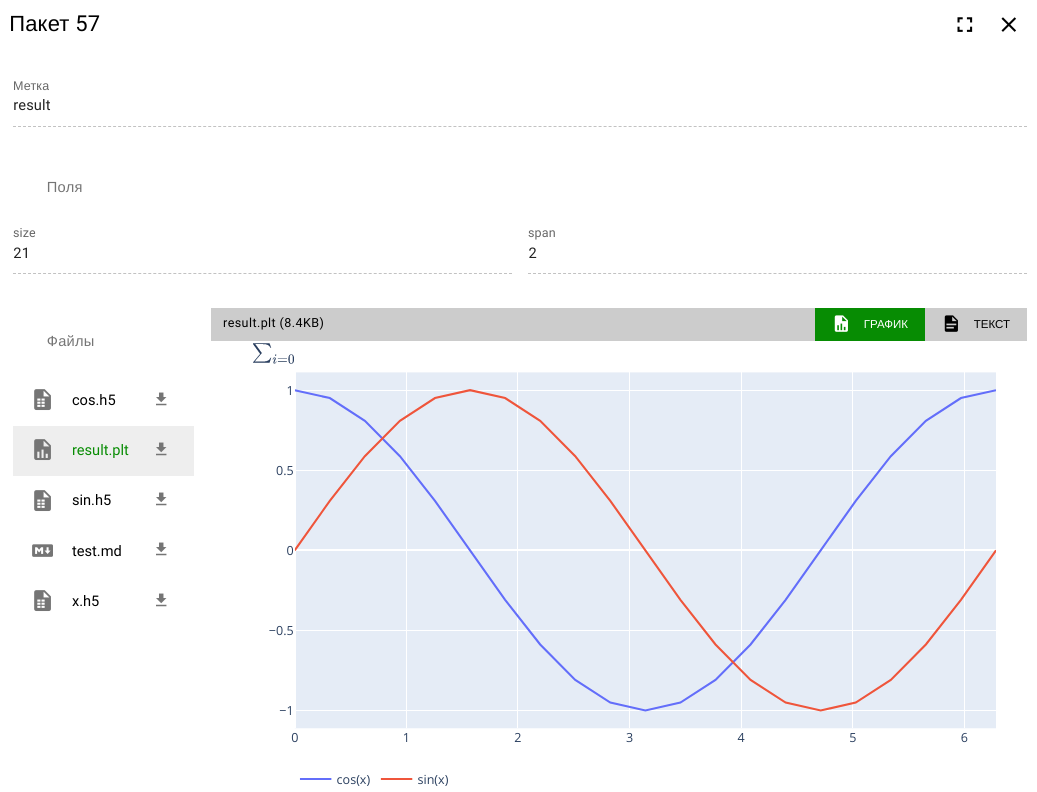
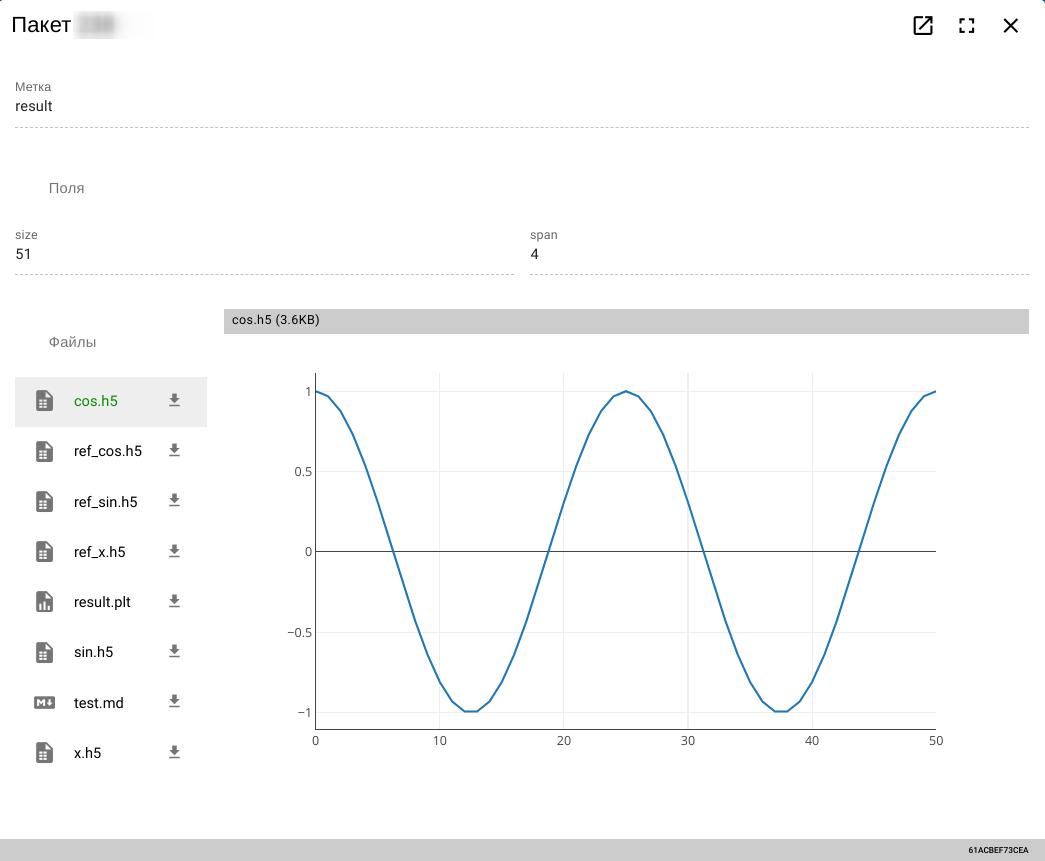
Package info refactoring

diff --git a/src/.vuepress/config.js b/src/.vuepress/config.js
@@ -62,6 +62,7 @@ module.exports = {
             '/desc/nodes',
             '/desc/links',
             '/desc/node_params',
+            '/desc/package',
             '/desc/project_role',
             '/desc/project_user',
             '/desc/secrets',

diff --git a/src/desc/nodes.md b/src/desc/nodes.md
@@ -27,7 +27,7 @@
   - <span class="iconify-inline" data-icon="mdi:kubernetes"></span> Иконка типа узла
   - Название узла: _compute_
   - <span class="iconify-inline" data-icon="mdi:delete"></span> Кнопка удаления узла
-- Кнопки для доступа к соответствующим свойствам узла
+- Кнопки для доступа к соответствующим вкладкам панели узла
 
   - <span class="iconify-inline" data-icon="mdi:card-text"> </span> [Описание](#описание)
   - <span class="iconify-inline" data-icon="mdi:tune"></span> [Параметры](#параметры)
@@ -46,13 +46,13 @@
 
 ![Query node](/images/common/node_query.png)
 
-Общий состав аналогичен [виду расчетного узла](#расчетныи-узел). Но доступ обеспечивается только к следующим свойствам узла:
+Общий состав аналогичен [виду расчетного узла](#расчетныи-узел). Но доступ обеспечивается только к следующим вкладкам панели узла:
 
 - Кнопки для доступа к соответствующим свойствам узла
   - <span class="iconify-inline" data-icon="mdi:card-text"></span> [Описание](#описание)
   - <span class="iconify-inline" data-icon="mdi:tune"></span> [Параметры](#параметры)
   - <span class="iconify-inline" data-icon="mdi:database"></span> [Запрос](#запрос)
-  - <span class="iconify-inline" data-icon="mdi:package"></span> [Пакеты](#пакеты)
+  - <span class="iconify-inline" data-icon="mdi:package"></span> [Пакеты][#пакеты]
 
 ### Узел данных
 
@@ -60,12 +60,12 @@
 
 ![Data node](/images/common/node_data.png)
 
-Общий состав аналогичен [виду расчетного узла](#расчетныи-узел). Но доступ обеспечивается только к следующим свойствам узла:
+Общий состав аналогичен [виду расчетного узла](#расчетныи-узел). Но доступ обеспечивается только к следующим вкладкам панели узла:
 
 - Кнопки для доступа к соответствующим свойствам узла
   - <span class="iconify-inline" data-icon="mdi:card-text"></span> [Описание](#описание)
   - <span class="iconify-inline" data-icon="mdi:tune"></span> [Параметры](#параметры)
-  - <span class="iconify-inline" data-icon="mdi:package"></span> [Пакеты](#пакеты)
+  - <span class="iconify-inline" data-icon="mdi:package"></span> [Пакеты][#пакеты]
 
 ## Панели узла
 
@@ -118,7 +118,7 @@
 
     Структура каждого элемента списка:
 
-    - Тип переменной <span class="iconify-inline" data-icon="mdi:code-json"></span> [Поле](#пакеты) или <span class="iconify-inline" data-icon="mdi:file"></span> [Файл](#пакеты) или <span class="iconify-inline" data-icon="mdi:package"></span> [Вложенные пакеты](#пакеты) с возможностью изменения при щелчке по ней
+    - Тип переменной <span class="iconify-inline" data-icon="mdi:code-json"></span> [Поле][3] или <span class="iconify-inline" data-icon="mdi:file"></span> [Файл][3] или <span class="iconify-inline" data-icon="mdi:package"></span> [Вложенные пакеты][3] с возможностью изменения при щелчке по ней
     - Название переменной с возможностью переименования при щелчке по ней
     - Описание переменной с возможностью переименования при щелчке по нему
     - <span class="iconify-inline" data-icon="mdi:content-copy"></span> Копирование переменной
@@ -221,39 +221,7 @@ Cтруктура:
 
 ### Пакеты
 
-#### Описание
-
-**Пакет** (Package) - набор данных, поступающих на обработку на соответствующий узел.
-
-Общее количество пакетов в узле в текущем [слое данных][1] отображается в виде ярлыка <span class='iconify-inline' data-icon='ph:number-square-one-fill' style="color: green"></span>:
-
-![Node packages count](/images/common/node_compute_packages.png)
-
-**Мастер пакет** (Master package) <span class='iconify-inline' data-icon='fluent:rectangle-landscape-16-filled' style="color: red"></span> - выбранный пользователем корневой пакет слоя данных. Выбор такого пакета позволяет отображать в текущем [слое данных][1] только родительские и дочерние пакеты мастер пакета.
-
-![Master package](/images/common/node_panel_packages_master.png)
-
-Состав пакета:
-
-- Метка - имя пакета
-- Поля - переменные простых типов
-  > Представление в [JSON](https://www.json.org/json-en.html) формате.Такие переменные можно использовать в запросах логического узла.
-- Файлы - объектные переменные или файлы
-  > Представление в объектном виде (hdf5, plotly, markdown). При автоматическом создании используется [HDF5](https://portal.hdfgroup.org/display/HDF5/Introduction+to+HDF5) формат.
-- Массив пакетов - массив "вложенных" пакетов. "Вложенный" пакет представляет собой обычный пакет с дополнительной ссылкой на пакет, в который он "вложен".
-
-  ::: warning <span class="iconify" data-icon="emojione-v1:warning" style="color: #e7c000; font-size: 24px;"></span>
-
-  Массив пакетов может быть [сформирован](/docs/dev/sql.md#пример-формирования-пакета-с-переменнои-типа-массив-пакетов) только в [SQL yзле](#sql-узел) с помощью агрегатной функции `json_agg(json_build_object())`. Вложенные пакеты должны иметь одинаковую структуру.
-
-  Пакет с таким типом переменной не может быть снова подан на вход другого SQL узла.
-
-  Для исполнительного скрипта в [расчетном узле](#расчетныи-узел) пакет с переменой типа "массивом пакетов" загружается как набор из основного пакета и вложенных пакетов в виде отдельных обычных пакетов.
-  :::
-
-#### Интерфейс
-
-В узле в соответствующей вкладке <span class='iconify-inline' data-icon='mdi:package'></span> **Пакеты** отображается список пакетов узла в рамках выбранного [слоя данных][1]:
+В вкладке <span class='iconify-inline' data-icon='mdi:package'></span> **Пакеты** отображается список [пакетов][4] узла в рамках выбранного [слоя данных][1]:
 
 ![Node package](/images/common/node_panel_packages.png)
 
@@ -297,32 +265,25 @@ Cтруктура:
 
 Для открытия окна конкретного пакета необходимо щелкнуть по его идентификатору в столбце **Id**.
 
-Структура отображения состава пакета:
+Структура отображения состава [пакета][4]:
+
+- Панель инструментов
+
+  - <span class='iconify-inline' data-icon='mdi:open-in-new'></span> Открыть пакет на новой странице браузера
+    ::: tip <span class='iconify' data-icon='mdi:information' style='color: #42b983; font-size: 24px;'></span>
+    При открытии пакета на новой странице браузера возвращается прямая ссылка на пакет.
+    :::
+
+  - <span class='iconify-inline' data-icon='mdi:fullscreen'></span> Открыть на весь экран
+  - <span class='iconify-inline' data-icon='mdi:close'></span> Закрыть
 
 - Метка
 - Поля и их значения
-- Список файлов
-  - Отображение выбранного файла в текстовом виде (при поддержке формата)
-  - Визуализация выбранного файла (при поддержке формата)
-  - <span class="iconify-inline" data-icon="mdi:download"></span> Скачать файл
+- Список файлов с кнопкой скачивания <span class="iconify-inline" data-icon="mdi:download"></span>
+- Окно отображения выбранного файла
+- Кнопка копирования [уникального идентификатора][3] пакета (в правом нижнем углу)
 
 ![Package](/images/common/package.png)
-
-#### Обработка пакета
-
-Пакет может обрабатываться в 3 режимах:
-
-1. Автоматическом
-
-   Автоматическая обработка пакета происходит в случае если узел находится в активном [состоянии](#состояние). В этом случае для каждого нового входящего пакета автоматически создается [задание](#задания), которое отравляется на соответствующий сервер расчетов проекта.
-
-2. [Ручном не интерактивном](/docs/instructions/package.md#обработка-пакета)
-
-   Пакет отправляется на первичную или повторную обработку вручную.
-
-3. [Ручном интерактивном](/docs/instructions/package.md#интерактивная-обработка-пакета)
-
-   Пакет отправляется на первичную или повторную обработку интерактивную обработку вручную.
 
 ### Запрос
 
@@ -430,7 +391,7 @@ Cтруктура:
 
 Структура отображения состава задания:
 
-- Панель управления
+- Панель инструментов
   - <span class='iconify-inline' data-icon='mdi:fullscreen'></span> Открыть на весь экран
   - <span class='iconify-inline' data-icon='mdi:close'></span> Закрыть
 - История обработки
@@ -460,3 +421,5 @@ Cтруктура:
 
 [1]: ./project.md#слои-данных
 [2]: /docs/desc/node_params.md#управление-параметрами
+[3]: /docs/desc/package.md#состав
+[4]: /docs/desc/package.md

diff --git a/src/dev/sql.md b/src/dev/sql.md
@@ -26,10 +26,9 @@
 
    Массив используется в служебных целях (не отображается пользователю при обработке пакета в скрипте расчетного узла ) для формирования истории создания пакета и для идентификации уникальности результата запроса.
 
-2. Остальные столбцы результата запроса преобразуются в переменные типа "поле" или "файл" или "массив пакетов" [пакета][1]. Тип переменной задается в выходной [спецификации][3] [SQL узла][2].
+2. Остальные столбцы результата запроса преобразуются в переменные типа [поле][6] или [файл][6] или [массив пакетов][6] [пакета][1]. Тип переменной задается в выходной [спецификации][3] [SQL узла][2].
 
-3. Если столбец должен представлять переменную типа "массив пакетов", то он должен формироваться как JSON массив JSON объектов. Для каждого JSON объекта создается новый "вложенный" пакет, а каждое поле JSON объекта преобразуется в переменную типа "поле" или "файл" "вложенного" [пакета][1]. Тип переменной задается в выходной [спецификации][3] [SQL узла][2].
-   Дополнительная информация о переменной типа "массив пакетов" в описании [пакета][1].
+3. Если столбец должен представлять переменную типа [массив пакетов][6], то он должен формироваться как JSON массив JSON объектов. Для каждого JSON объекта создается новый "вложенный" пакет, а каждое поле JSON объекта преобразуется в переменную типа [поле][6] или [файл][6] "вложенного" [пакета][1]. Тип переменной задается в выходной [спецификации][3] [SQL узла][2].
 
 ### Пример формирования простого пакета
 
@@ -63,12 +62,12 @@ from sin s join cos c on s.job_id = c.job_id
 
 ::: warning <span class="iconify" data-icon="emojione-v1:warning" style="color: #e7c000; font-size: 24px;"></span>
 
-При создании запроса в качестве условных параметров можно использовать только [переменные пакета][1] типа "поле". В качестве возвращаемых переменных можно использовать любые переменные пакета.
+При создании запроса в качестве условных параметров можно использовать только переменные пакета типа [поле][6]. В качестве возвращаемых переменных можно использовать любые переменные пакета.
 :::
 
 ### Пример формирования пакета с переменной типа "массив пакетов"
 
-Дополнительная информация о переменной типа "массив пакетов" в описании [пакета][1].
+Дополнительная информация о переменной типа [массив пакетов][6] в описании [пакета][1].
 
 ```sql:no-line-numbers
 select
@@ -143,7 +142,7 @@ group by ...
 
 - Результат - тип выходного [пакета][1]
   - Плоский пакет - обычный [пакет][1]
-  - Вложенные пакеты - [пакет][1], в которой добавлен переменная типа "массив пакетов".
+  - Вложенные пакеты - [пакет][1], в которой добавлен переменная типа [массив пакетов][6].
 - <span class="iconify-inline" data-icon="mdi:checkbox-marked" style="color: green"></span> Псевдонимы столбцов - переключатель добавления псевдонимов столбцов в запросе
 - <span class="iconify-inline" data-icon="mdi:checkbox-marked" style="color: green"></span> Имена таблиц в псевдонимах - использовать имена [виртуальных таблиц][5] при формировании псевдонимов столбцов в запросе
 - Кнопка "ПОСТРОИТЬ ЗАПРОС" - перегенерировать запрос
@@ -152,8 +151,9 @@ group by ...
 - Кнопка "ДОБАВИТЬ" - добавить запрос к существующему запросу узла
 - Кнопка "ОТМЕНА" - выйти из мастера
 
-[1]: /docs/desc/nodes.md#пакеты
+[1]: /docs/desc/package.md
 [2]: /docs/desc/nodes.md#sql-узел
 [3]: /docs/desc/nodes.md#спецификация
 [4]: #правила-формирования-запроса
 [5]: #виртуальная-таблица
+[6]: /docs/desc/package.md#состав

diff --git a/src/desc/package.md b/src/desc/package.md
@@ -1,0 +1,67 @@
+# Пакеты
+
+## Описание
+
+**Пакет** (Package) - набор данных, поступающих на обработку в соответствующий [узел][4].
+
+Список пакетов отображается в [панели узла][1] в вкладке <span class='iconify-inline' data-icon='mdi:package'></span> [**Пакеты**][2].
+
+Общее количество пакетов в узле в текущем [слое данных][3] отображается в виде ярлыка <span class='iconify-inline' data-icon='ph:number-square-one-fill' style="color: green"></span>:
+
+![Node packages count](/images/common/node_compute_packages.png)
+
+**Мастер пакет** (Master package) <span class='iconify-inline' data-icon='fluent:rectangle-landscape-16-filled' style="color: red"></span> - выбранный пользователем корневой пакет слоя данных. Выбор такого пакета позволяет отображать в текущем [слое данных][3] только родительские и дочерние пакеты мастер пакета.
+
+![Master package](/images/common/node_panel_packages_master.png)
+
+## Состав
+
+- Метка - имя
+- Поля - переменные простых типов
+  > Представление в [JSON](https://www.json.org/json-en.html) формате.Такие переменные можно использовать в запросах логического узла.
+- Файлы - объектные переменные или файлы
+  > Представление в объектном виде (hdf5, plotly, markdown). При автоматическом создании используется [HDF5](https://portal.hdfgroup.org/display/HDF5/Introduction+to+HDF5) формат.
+- Массив пакетов - массив "вложенных" пакетов. "Вложенный" пакет представляет собой обычный пакет с дополнительной ссылкой на пакет, в который он "вложен".
+
+  ::: warning <span class="iconify" data-icon="emojione-v1:warning" style="color: #e7c000; font-size: 24px;"></span>
+
+  Массив пакетов может быть [сформирован][5] только в [SQL yзле][6] с помощью агрегатной функции `json_agg(json_build_object())`. Вложенные пакеты должны иметь одинаковую структуру.
+
+  Пакет с таким типом переменной не может быть снова подан на вход другого SQL узла.
+
+  Для исполнительного скрипта в [расчетном узле][7] пакет с переменой типа "массивом пакетов" загружается как набор из основного пакета и вложенных пакетов в виде отдельных обычных пакетов.
+  :::
+
+- Уникальный идентификатор - автоматически генерируемое значение в формате [SHA256][12].
+  ::: tip <span class='iconify' data-icon='mdi:information' style='color: #42b983; font-size: 24px;'></span>
+  Значение идентификатора зависит от состава пакета и от истории его создания. Значение является уникальным и гарантирует неизменность пакета.
+  :::
+
+  ## Обработка пакета
+
+Пакет может обрабатываться в 3 режимах:
+
+1. Автоматическом
+
+   Автоматическая обработка пакета происходит в случае если узел находится в активном [состоянии][8]. В этом случае для каждого нового входящего пакета автоматически создается [задание][9], которое отравляется на соответствующий сервер расчетов проекта.
+
+2. [Ручном не интерактивном][10]
+
+   Пакет отправляется на первичную или повторную обработку вручную.
+
+3. [Ручном интерактивном][11]
+
+   Пакет отправляется на первичную или повторную обработку интерактивную обработку вручную.
+
+[1]: /docs/desc/nodes.md#панели-узла
+[2]: /docs/desc/nodes.md#пакеты
+[3]: ./project.md#слои-данных
+[4]: /docs/desc/nodes.md
+[5]: /docs/dev/sql.md#пример-формирования-пакета-с-переменнои-типа-массив-пакетов
+[6]: /docs/desc/nodes.md#sql-узел
+[7]: /docs/desc/nodes.md#расчетныи-узел
+[8]: /docs/desc/nodes.md#состояние
+[9]: /docs/desc/nodes.md#задания
+[10]: /docs/instructions/package.md#обработка-пакета
+[11]: /docs/instructions/package.md#интерактивная-обработка-пакета
+[12]: https://en.wikipedia.org/wiki/SHA-2

diff --git a/src/instructions/package.md b/src/instructions/package.md
@@ -4,15 +4,15 @@
 
 - Открыть панель <span class="iconify-inline" data-icon="mdi:package"></span>[Пакеты][1] узла
 - Нажать кнопку <span class="iconify-inline" data-icon="mdi:package"></span> на панели инструментов.
-- Откроется окно создания [пакета][1]
+- Откроется окно создания [пакета][6]
 
   ![Create package](/images/common/node_panel_packages_create.png)
 
   В окне можно задать:
 
-  - метку;
-  - переменные [пакета][1] типа "поле", соответствующие параметрам узла (при их наличии);
-  - переменные [пакета][1] типа "файл" загрузив произвольные файлы из файловой системы.
+  - [метку][7];
+  - переменные пакета типа [поле][7], соответствующие параметрам узла (при их наличии);
+  - переменные пакета типа [файл][7] загрузив произвольные файлы из файловой системы.
 
 ## Обработка пакета
 
@@ -36,9 +36,9 @@
 
 **Запуск**
 
-- Открыть панель <span class="iconify-inline" data-icon="mdi:kubernetes"></span>[Контейнер][4] узла и в параметре **Память** установить не менее 256М.
+- Открыть панель <span class="iconify-inline" data-icon="mdi:kubernetes"></span>[Контейнер][4] узла и в параметре **Память** установить не менее **256М**.
 - Открыть панель <span class="iconify-inline" data-icon="mdi:package"></span>[Пакеты][1] узла
-- Выбрать необходимый пакет установив напротив него переключатель <span class='iconify-inline' data-icon='ph:number-circle-one-fill' style="color: red"></span> в значение <span class="iconify-inline" data-icon="mdi:checkbox-marked"></span>.
+- Выбрать необходимый [пакет][6] установив напротив него переключатель <span class='iconify-inline' data-icon='ph:number-circle-one-fill' style="color: red"></span> в значение <span class="iconify-inline" data-icon="mdi:checkbox-marked"></span>.
 - Нажать кнопку <span class="iconify-inline" data-icon="mdi:motion-play"></span> <span class='iconify-inline' data-icon='ph:number-circle-two-fill' style="color: red"></span> на панели инструментов.
 
   ![Run package](/images/common/node_panel_packages_execute_jupyter.png)
@@ -86,3 +86,5 @@
 [3]: https://jupyter-notebook.readthedocs.io/en/stable/ui_components.html#notebook-dashboard
 [4]: /docs/desc/nodes.md#контеинер
 [5]: /docs/desc/nodes.md#фаилы
+[6]: /docs/desc/package.md
+[7]: /docs/desc/package.md#состав

diff --git a/src/desc/links.md b/src/desc/links.md
@@ -56,7 +56,7 @@
 
 - Вкладка <span class='iconify-inline' data-icon='mdi:inbox-arrow-down'></span>**ПЕРЕИМЕНОВАНИЕ**
 
-  Вкладка позволяет задать правила переименования переменных пакетов, проходящих по ней. Переименовывать разрешается поля и файла [пакетов][1].
+  Вкладка позволяет задать правила переименования переменных пакетов, проходящих по ней. Переименовывать разрешается [поля][4] и [файлы][4] [пакетов][1].
 
   ![Link rename package variables](/images/common/link_rename_vars.png)
 
@@ -71,6 +71,7 @@
     - Выход - название выходной переменной;
     - <span class='iconify-inline' data-icon='mdi:plus' style="color: green"></span> - кнопка добавления нового правила.
 
-[1]: /docs/desc/nodes.md#пакеты
+[1]: /docs/desc/package.md
 [2]: /docs/desc/nodes.md#группа
 [3]: /docs/desc/nodes.md#задания
+[4]: /docs/desc/package.md#состав

diff --git a/src/intro/definitions.md b/src/intro/definitions.md
@@ -40,11 +40,11 @@
 
 ![Data layer](/images/common/datalayer.png)
 
-[Пакет](/docs/desc/nodes.md#пакеты) (Package) - единый набор данных, поступающих на обработку на соответствующий узел.
+[Пакет](/docs/desc/package.md) (Package) - единый набор данных, поступающих на обработку на соответствующий узел.
 
 ![Package](/images/common/package.png)
 
-[Мастер пакет](/docs/desc/nodes.md#пакеты) (Master package) - выбранный пользователем корневой пакет слоя данных.
+[Мастер пакет](/docs/desc/package.md) (Master package) - выбранный пользователем корневой пакет слоя данных.
 
 [Задание](/docs/desc/nodes.md#задания) (Job) - экземпляр выполнение узла с конкретными входными пакетами и параметрами.
 

diff --git a/src/dev/compute.md b/src/dev/compute.md
@@ -20,7 +20,7 @@ from rndflow import job
 - **params**() - получить параметры узла
 - **packages**() - получить пакеты узла
 - **load**(readers={}) - получить переменные пакетов узла
-- **save_package**(label=None, files={}, fields={}, images={}) - сохранить выходной [пакет](/docs/desc/nodes.md#пакеты)
+- **save_package**(label=None, files={}, fields={}, images={}) - сохранить выходной [пакет](/docs/desc/package.md)
 
   **label** - метка пакета, **fields** - поля пакета, **files** - файлы пакета, **images** - объекты [matplotlib](https://matplotlib.org/) или [plotly](https://plotly.com/python/).
   ::: tip <span class="iconify" data-icon="mdi:information" style="color: #42b983; font-size: 24px;"></span>

diff --git a/src/desc/project.md b/src/desc/project.md
@@ -10,7 +10,7 @@
 
 - [Граф](#граф) - реализующий конкретный алгоритм в составе
   - [Узлы](./nodes.md) и [группы](./nodes.md#группа)
-  - [Пакеты](./nodes.md#пакеты)
+  - [Пакеты](./package.md)
   - [Задания](./nodes.md#задания)
 - [Секреты](./secrets.md) - набор секретов для использовании в узлах при их исполнении
 - [Интерфейсы](./interface.md) - графические интерфейсы управления графом
